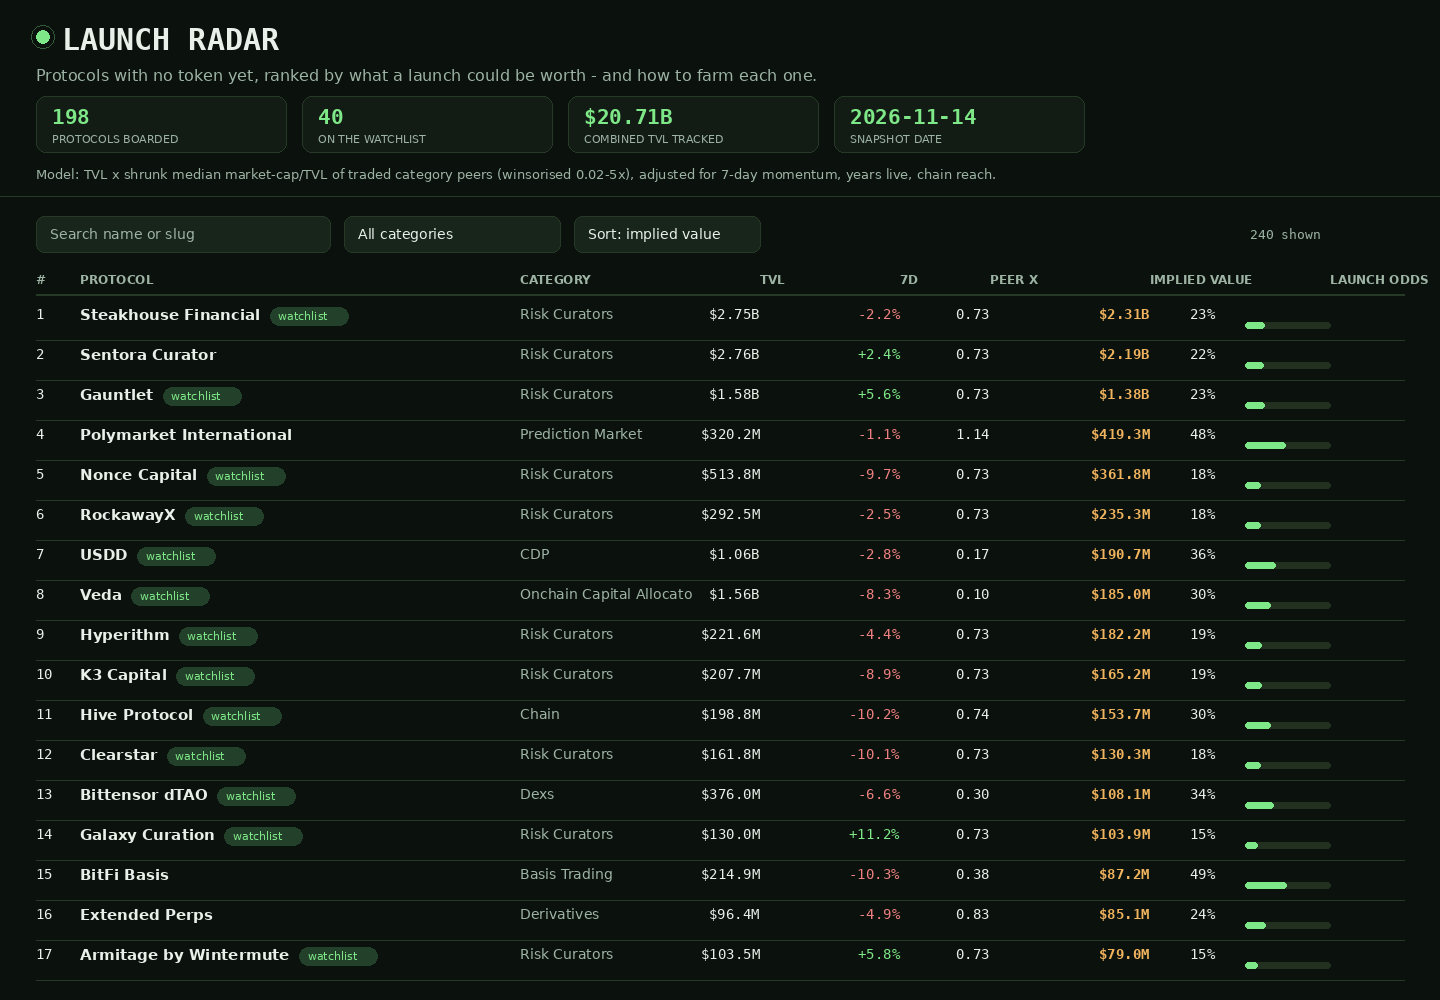
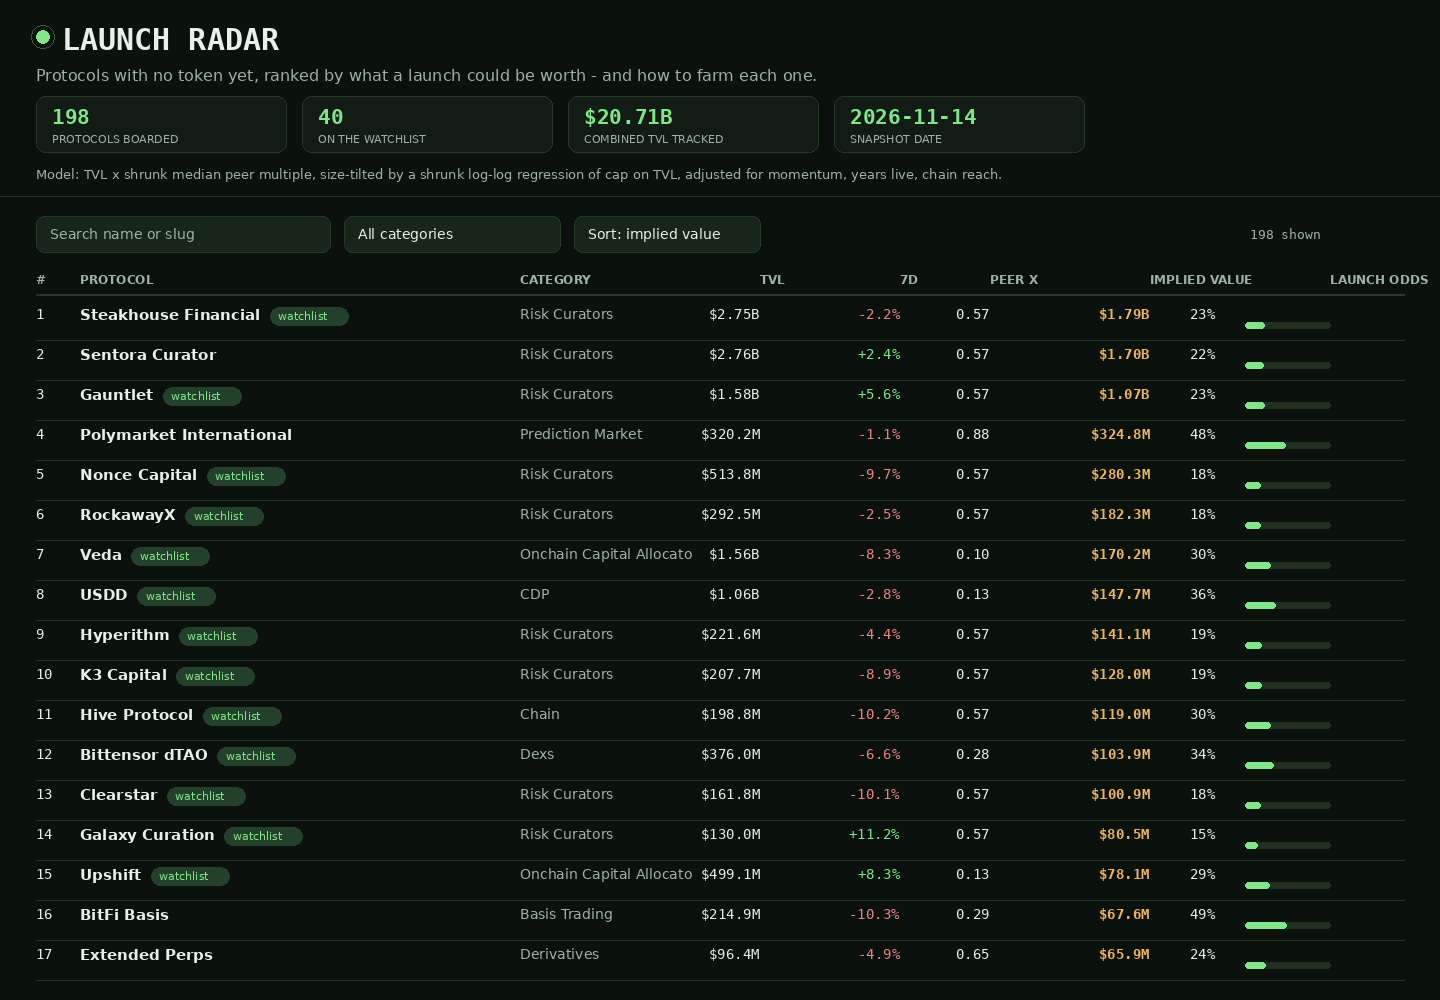
v2: median-multiple levels with a shrunk log-log regression size tilt, peer counts per row, sixth farm step carrying the model anchor

diff --git a/lib/model.ts b/lib/model.ts
@@ -2,16 +2,25 @@
 //
 // Method, in one paragraph: protocols whose token already trades are the
 // only honest yardstick in the snapshot, so the model measures them first.
-// For each category it takes the median market-cap / TVL multiple of the
-// token-bearing protocols, shrunk toward the global median when a category
-// has few traded names. A pre-token protocol's base value is its TVL times
-// its category's shrunk multiple. Three bounded adjustments follow, all
-// from the snapshot's own fields: seven-day TVL momentum (clamped, worth
-// at most +/-15%), seasoning - whole years the protocol has run with no
-// token recorded (up to +16%) - and chain reach (up to +10%). A separate
-// launch-odds score blends the category's historical launch propensity
-// with size and seasoning; it orders nothing on the board, it only tells
-// the reader where farming time is most likely to be rewarded.
+// The level of each price is the median market-cap / TVL multiple of the
+// traded protocols in the same category, shrunk toward the global median
+// when a category has few traded names. A log-log regression of market cap
+// on TVL - fitted globally, and per category where at least five names
+// trade, shrunk toward the global fit - then tilts that level for size:
+// the fit says how much thinner or richer a multiple typically runs at
+// this protocol's TVL than at the category's typical traded size, and the
+// board applies that tilt damped and bounded (a factor of 0.77 to 1.26).
+// The regression is deliberately not allowed to set the level itself: on
+// this snapshot it explains only about a fifth of the variance in market
+// caps, so using it as the price would let its weakest property - blind
+// compression of very large TVLs - run the board. Three bounded
+// adjustments follow, all from the snapshot's own fields: seven-day TVL
+// momentum (clamped, worth at most +/-15%), seasoning - whole years the
+// protocol has run with no token recorded (up to +16%) - and chain reach
+// (up to +10%). A separate launch-odds score blends the category's
+// historical launch propensity with size and seasoning; it orders nothing
+// on the board, it only tells the reader where farming time is most
+// likely to be rewarded.
 
 export interface Protocol {
   slug: string;
@@ -47,11 +56,12 @@ export interface BoardRow {
   listed_at: string | null;
   watchlist: boolean;
   multiple: number;
+  peers: number;
   launch_odds_pct: number;
   years_live: number | null;
 }
 
-export const MODEL_VERSION = 'launch-radar v1: shrunk category multiples';
+export const MODEL_VERSION = 'launch-radar v2: category median multiples with a shrunk log-log regression size tilt';
 export const BOARD_SIZE = 240;
 
 export function parseSnapshot(text: string): Snapshot {
@@ -81,27 +91,69 @@ export function yearsLive(p: Protocol, asOf: string): number | null {
   return Math.floor((end - start) / (365.25 * 24 * 3600 * 1000) * 10) / 10;
 }
 
-interface CategoryStats {
+interface CategoryModel {
+  /** Shrunk median mcap/TVL multiple of the category's traded protocols. */
   multiple: number;
+  /** Log-log fit ln(mcap) = intercept + slope * ln(TVL), shrunk to the global fit. */
+  intercept: number;
+  slope: number;
+  /** Median TVL of the category's fittable traded peers: the size the fit is anchored at. */
+  refTvl: number;
   traded: number;
   preToken: number;
 }
 
-/** Median mcap/TVL per category over traded protocols, shrunk to the global median. */
-export function categoryMultiples(snapshot: Snapshot): Map<string, CategoryStats> {
+interface Fit {
+  intercept: number;
+  slope: number;
+}
+
+/** Ordinary least squares of ln(mcap) on ln(TVL); slope bounded to a sane band. */
+function fitLogLog(points: { tvl: number; mcap: number }[]): Fit {
+  const xs = points.map((pt) => Math.log(pt.tvl));
+  const ys = points.map((pt) => Math.log(pt.mcap));
+  const n = points.length;
+  const mx = xs.reduce((s, v) => s + v, 0) / n;
+  const my = ys.reduce((s, v) => s + v, 0) / n;
+  let sxy = 0;
+  let sxx = 0;
+  for (let i = 0; i < n; i++) {
+    sxy += (xs[i]! - mx) * (ys[i]! - my);
+    sxx += (xs[i]! - mx) * (xs[i]! - mx);
+  }
+  const slope = sxx === 0 ? 1 : clamp(sxy / sxx, 0.3, 1.3);
+  return { intercept: my - slope * mx, slope };
+}
+
+/**
+ * Peer models per category: a shrunk median multiple and a shrunk log-log
+ * regression, both fitted on the traded protocols only.
+ */
+export function categoryModels(snapshot: Snapshot): Map<string, CategoryModel> {
   const traded = snapshot.protocols.filter((p) => p.mcap_usd !== null && p.tvl_usd > 0);
   // Winsorise each peer multiple before any median: one traded name with a
   // near-zero TVL denominator would otherwise price a whole category at
   // hundreds of times TVL, and no reader would believe the board.
   const peerMultiple = (p: Protocol): number => clamp(p.mcap_usd! / p.tvl_usd, 0.02, 5);
   const globalMedian = median(traded.map(peerMultiple));
-  const byCategory = new Map<string, number[]>();
+  // The regression reads logs, so a peer recorded with a zero market cap
+  // (listed, but no cap reported) would poison every fit with NaNs; such
+  // peers still count for the medians, never for the regression.
+  const fittable = traded.filter((p) => p.mcap_usd !== null && p.mcap_usd > 0);
+  const globalFit = fitLogLog(fittable.map((p) => ({ tvl: p.tvl_usd, mcap: p.mcap_usd! })));
+  const multiplesByCat = new Map<string, number[]>();
+  const pointsByCat = new Map<string, { tvl: number; mcap: number }[]>();
   const preCount = new Map<string, number>();
   for (const p of traded) {
     const key = p.category ?? 'Uncategorised';
-    const list = byCategory.get(key) ?? [];
+    const list = multiplesByCat.get(key) ?? [];
     list.push(peerMultiple(p));
-    byCategory.set(key, list);
+    multiplesByCat.set(key, list);
+    if (p.mcap_usd !== null && p.mcap_usd > 0) {
+      const pts = pointsByCat.get(key) ?? [];
+      pts.push({ tvl: p.tvl_usd, mcap: p.mcap_usd! });
+      pointsByCat.set(key, pts);
+    }
   }
   for (const p of snapshot.protocols) {
     if (p.gecko_id === null && p.symbol === null) {
@@ -109,39 +161,77 @@ export function categoryMultiples(snapshot: Snapshot): Map<string, CategoryStats
       preCount.set(key, (preCount.get(key) ?? 0) + 1);
     }
   }
-  const stats = new Map<string, CategoryStats>();
-  for (const [key, values] of byCategory) {
+  const globalRefTvl = median(fittable.map((p) => p.tvl_usd));
+  const models = new Map<string, CategoryModel>();
+  for (const [key, values] of multiplesByCat) {
     const n = values.length;
     const shrunk = (n * median(values) + 4 * globalMedian) / (n + 4);
-    stats.set(key, { multiple: shrunk, traded: n, preToken: preCount.get(key) ?? 0 });
+    // A category earns its own regression at five traded names; below that
+    // it borrows the global fit whole. Above it, the fit is shrunk toward
+    // the global one with weight n / (n + 8).
+    let fit: Fit = globalFit;
+    const ownPoints = pointsByCat.get(key) ?? [];
+    if (n >= 5 && ownPoints.length >= 3) {
+      const own = fitLogLog(ownPoints);
+      const w = n / (n + 8);
+      fit = {
+        intercept: w * own.intercept + (1 - w) * globalFit.intercept,
+        slope: w * own.slope + (1 - w) * globalFit.slope,
+      };
+    }
+    models.set(key, {
+      multiple: shrunk,
+      intercept: fit.intercept,
+      slope: fit.slope,
+      refTvl: ownPoints.length > 0 ? median(ownPoints.map((pt) => pt.tvl)) : globalRefTvl,
+      traded: n,
+      preToken: preCount.get(key) ?? 0,
+    });
   }
   for (const [key, count] of preCount) {
-    if (!stats.has(key)) stats.set(key, { multiple: globalMedian, traded: 0, preToken: count });
+    if (!models.has(key)) {
+      models.set(key, {
+        multiple: globalMedian,
+        intercept: globalFit.intercept,
+        slope: globalFit.slope,
+        refTvl: globalRefTvl,
+        traded: 0,
+        preToken: count,
+      });
+    }
   }
-  return stats;
+  return models;
 }
 
-const FALLBACK: CategoryStats = { multiple: 0.2, traded: 0, preToken: 0 };
+const FALLBACK: CategoryModel = { multiple: 0.2, intercept: 0, slope: 1, refTvl: 1e8, traded: 0, preToken: 0 };
 
 export function scoreProtocol(
   p: Protocol,
   snapshot: Snapshot,
-  stats: Map<string, CategoryStats>,
-): { value: number; multiple: number; odds: number; years: number | null } {
+  models: Map<string, CategoryModel>,
+): { value: number; multiple: number; peers: number; odds: number; years: number | null } {
   const key = p.category ?? 'Uncategorised';
-  const stat = stats.get(key) ?? FALLBACK;
+  const model = models.get(key) ?? FALLBACK;
   const years = yearsLive(p, snapshot.as_of);
+  // The category median multiple sets the level. The regression then
+  // tilts it for size: the multiple the fit implies at this TVL, divided
+  // by the multiple it implies at the category's typical traded size,
+  // bounded to 0.6-1.6 and square-root damped before it is applied.
+  const fitMultipleAt = (tvl: number): number =>
+    Math.exp(model.intercept + (model.slope - 1) * Math.log(Math.max(tvl, 1)));
+  const tilt = clamp(fitMultipleAt(p.tvl_usd) / Math.max(fitMultipleAt(model.refTvl), 1e-9), 0.6, 1.6);
+  const base = p.tvl_usd * model.multiple * Math.sqrt(tilt);
   const momentum = p.change_7d === null ? 0 : clamp(p.change_7d, -30, 30);
   const momentumFactor = 1 + (momentum / 100) * 0.5;
   const seasoningFactor = years === null ? 1 : 1 + Math.min(years, 4) * 0.04;
   const reachFactor = 1 + Math.min(Math.max(p.chains.length - 1, 0), 10) * 0.01;
-  const value = Math.max(1, Math.round(p.tvl_usd * stat.multiple * momentumFactor * seasoningFactor * reachFactor));
+  const value = Math.max(1, Math.round(base * momentumFactor * seasoningFactor * reachFactor));
   // Launch odds: the category's traded share, lifted by size and seasoning, capped.
-  const propensity = stat.traded + stat.preToken === 0 ? 0.3 : stat.traded / (stat.traded + stat.preToken);
+  const propensity = model.traded + model.preToken === 0 ? 0.3 : model.traded / (model.traded + model.preToken);
   const sizeLift = clamp(Math.log10(Math.max(p.tvl_usd, 1)) - 7, 0, 2) * 6; // +0..12 over $10M..$1B
   const seasonLift = years === null ? 0 : Math.min(years, 5) * 2.4; // +0..12
   const odds = Math.round(clamp(propensity * 62 + sizeLift + seasonLift + 6, 5, 92));
-  return { value, multiple: stat.multiple, odds, years };
+  return { value, multiple: p.tvl_usd > 0 ? base / p.tvl_usd : 0, peers: model.traded, odds, years };
 }
 
 function money(usd: number): string {
@@ -179,7 +269,7 @@ const CORE_ACTION: Record<string, string> = {
   'Canonical Bridge': 'bridge real funds to the chain it serves and use them there instead of moving them back',
 };
 
-export function farmSteps(p: Protocol, tvl: number): string[] {
+export function farmSteps(p: Protocol, tvl: number, peers: number, multiple: number): string[] {
   const cat = p.category ?? 'protocol';
   const action = CORE_ACTION[p.category ?? ''] ?? 'use its core product with a real, if small, position';
   const chainText = p.chains.length > 0 ? p.chains.slice(0, 3).join(', ') : 'its home chain';
@@ -188,10 +278,15 @@ export function farmSteps(p: Protocol, tvl: number): string[] {
     p.change_7d === null
       ? 'TVL was flat in the latest snapshot week'
       : `TVL moved ${p.change_7d >= 0 ? '+' : ''}${p.change_7d.toFixed(1)}% in the last seven days`;
+  const peerText =
+    peers > 0
+      ? `The board prices ${p.name} off ${peers} traded ${cat} peer${peers === 1 ? '' : 's'} at a fitted ${multiple.toFixed(2)}x of TVL`
+      : `No ${cat} peer trades yet, so the board prices ${p.name} off the global peer fit`;
   return [
     `Start on ${chainText}: ${action} on ${p.name} with ${stake} of working capital; budget about $10-$40 for gas and fees and 45 minutes for the first setup.`,
     `Repeat the core action weekly for six to eight weeks: ${p.name} is a ${cat} protocol holding ${money(tvl)}, and steady, dated activity reads very differently from one large deposit made in a single day.`,
     `Keep the position live through at least one full month-end and screenshot your balances monthly; ${growth}, so a position opened before a snapshot-style review is the one that counts.`,
+    `${peerText}: if a closer peer launches first at a very different multiple, re-check this position's size before adding more - the model's anchor moves with the peer set.`,
     `Do the free work too: join ${p.name}'s governance or community channels, vote on any live proposal and finish any official points or quest programme it runs; allow one hour a month and no spend.`,
     `Stay claim-ready: keep the same wallet active, never buy a 'guaranteed airdrop' service, and if ${p.name} announces a token, claim only from its official site - expect two to four hours of checking in launch week.`,
   ];
@@ -224,13 +319,13 @@ export function isLaunchCandidate(p: Protocol): boolean {
 }
 
 export function buildBoard(snapshot: Snapshot): BoardRow[] {
-  const stats = categoryMultiples(snapshot);
+  const models = categoryModels(snapshot);
   const watch = new Set(snapshot.watchlist);
   const preToken = snapshot.protocols.filter(
     (p) => p.gecko_id === null && p.symbol === null && (watch.has(p.slug) || isLaunchCandidate(p)),
   );
   const scored = preToken.map((p) => {
-    const s = scoreProtocol(p, snapshot, stats);
+    const s = scoreProtocol(p, snapshot, models);
     return { p, ...s };
   });
   scored.sort((a, b) => b.value - a.value || b.p.tvl_usd - a.p.tvl_usd || a.p.slug.localeCompare(b.p.slug));
@@ -246,7 +341,7 @@ export function buildBoard(snapshot: Snapshot): BoardRow[] {
     name: row.p.name,
     rank: i + 1,
     implied_value_usd: row.value,
-    farm_steps: farmSteps(row.p, row.p.tvl_usd),
+    farm_steps: farmSteps(row.p, row.p.tvl_usd, row.peers, row.multiple),
     category: row.p.category,
     chains: row.p.chains,
     tvl_usd: row.p.tvl_usd,
@@ -254,6 +349,7 @@ export function buildBoard(snapshot: Snapshot): BoardRow[] {
     listed_at: row.p.listed_at,
     watchlist: watch.has(row.p.slug),
     multiple: Math.round(row.multiple * 1000) / 1000,
+    peers: row.peers,
     launch_odds_pct: row.odds,
     years_live: row.years,
   }));
@@ -262,9 +358,13 @@ export function buildBoard(snapshot: Snapshot): BoardRow[] {
 /** One-line explanation of the model, shown on the dashboard and in the data file. */
 export const MODEL_NOTE =
   'Implied value = TVL x the shrunk median market-cap/TVL multiple of traded peers in the same category ' +
-  '(peer multiples winsorised to 0.02-5x so one outlier cannot price a category), adjusted for 7-day TVL ' +
-  'momentum (at most +/-15%), years live with no token recorded (up to +16%) and chain reach (up to +10%). ' +
-  'Launch odds blend the category launch propensity with size and seasoning.';
+  '(peer multiples winsorised to 0.02-5x so one outlier cannot price a category), tilted for size by a ' +
+  'log-log regression of market cap on TVL fitted to the traded protocols (per category where at least ' +
+  'five peers trade, shrunk toward the global fit; the tilt is bounded and damped, a factor of 0.77-1.26, ' +
+  'because the fit explains only about a fifth of cap variance and is not trusted to set levels). The ' +
+  'result is adjusted for 7-day TVL momentum (at most +/-15%), years live with no token recorded (up to ' +
+  '+16%) and chain reach (up to +10%). Launch odds blend the category launch propensity with size and ' +
+  'seasoning. Each row carries the number of traded peers its price was fitted from.';
 
 /** Serialise the dashboard's data as a script the static page reads with no network. */
 export function dataScript(snapshot: Snapshot, rows: BoardRow[]): string {

diff --git a/dashboard/app.js b/dashboard/app.js
@@ -161,7 +161,8 @@
     [
       [money(row.implied_value_usd), 'implied launch value'],
       [money(row.tvl_usd), 'TVL in snapshot'],
-      [row.multiple.toFixed(2) + 'x', 'category peer multiple'],
+      [row.multiple.toFixed(2) + 'x', 'fitted peer multiple'],
+      [String(row.peers), 'traded peers in the fit'],
       [row.launch_odds_pct + '%', 'launch odds (model)'],
       [row.change_7d === null ? '-' : (row.change_7d >= 0 ? '+' : '') + row.change_7d.toFixed(1) + '%', 'TVL change, 7 days'],
       [row.years_live === null ? 'unknown' : row.years_live.toFixed(1) + ' yrs', 'live with no token'],
